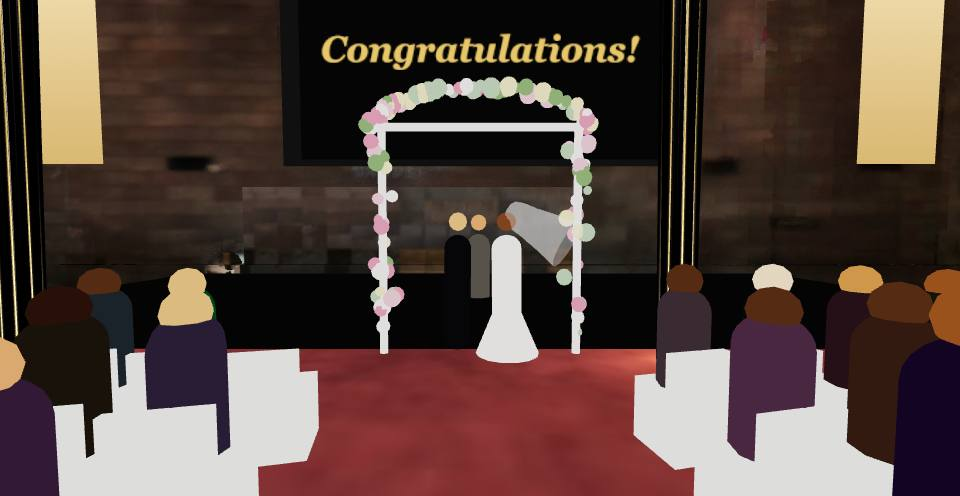
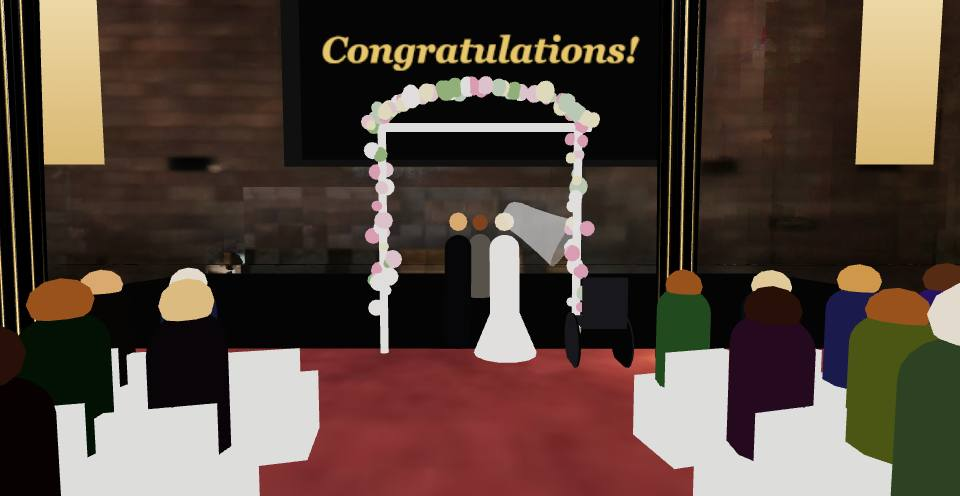
The bride's own wheelchair (Lloyd, for his fiancee): empty, parked at her side by the arch and facing it as she does, through the ceremony and the walk out
Claude-Session: https://claude.ai/code/session_01TvFyJ7jgaVEcvXM9wy2J9o

diff --git a/index.html b/index.html
@@ -2612,6 +2612,10 @@ function buildWedding(ctx){
  // +inRoom pointed the riders at the back of the hall
  const faceYaw=Math.atan2(-EVENT.N.inRoom.x,-EVENT.N.inRoom.z);
  for(const w of wheelchairs){ w.pause=1e9; w.g.rotation.y=faceYaw; } // seated with the rows, facing the arch
+ // THE BRIDE'S OWN WHEELCHAIR (Lloyd, 2026-09-02, for his fiancee): empty, parked at her side
+ // by the arch, facing it as she does; she has stood up out of it for the vows. Not in the
+ // wheelchairs list, so nothing drives it and no rice counts it
+ { const p=eventPoint(uMid-1.3,0,3.95), bc=addWheelchair(p.x,p.z,ctx.y0,new THREE.Color()); const r=bc.userData.rider; bc.remove(r.body,r.head); bc.userData.rider=null; bc.rotation.y=faceYaw; wedding.brideChair=bc; }
  eventAnim=(dt,t)=>updateWedding(dt,t); updateWedding(0,0);
 }
 function updateWedding(dt,t){
